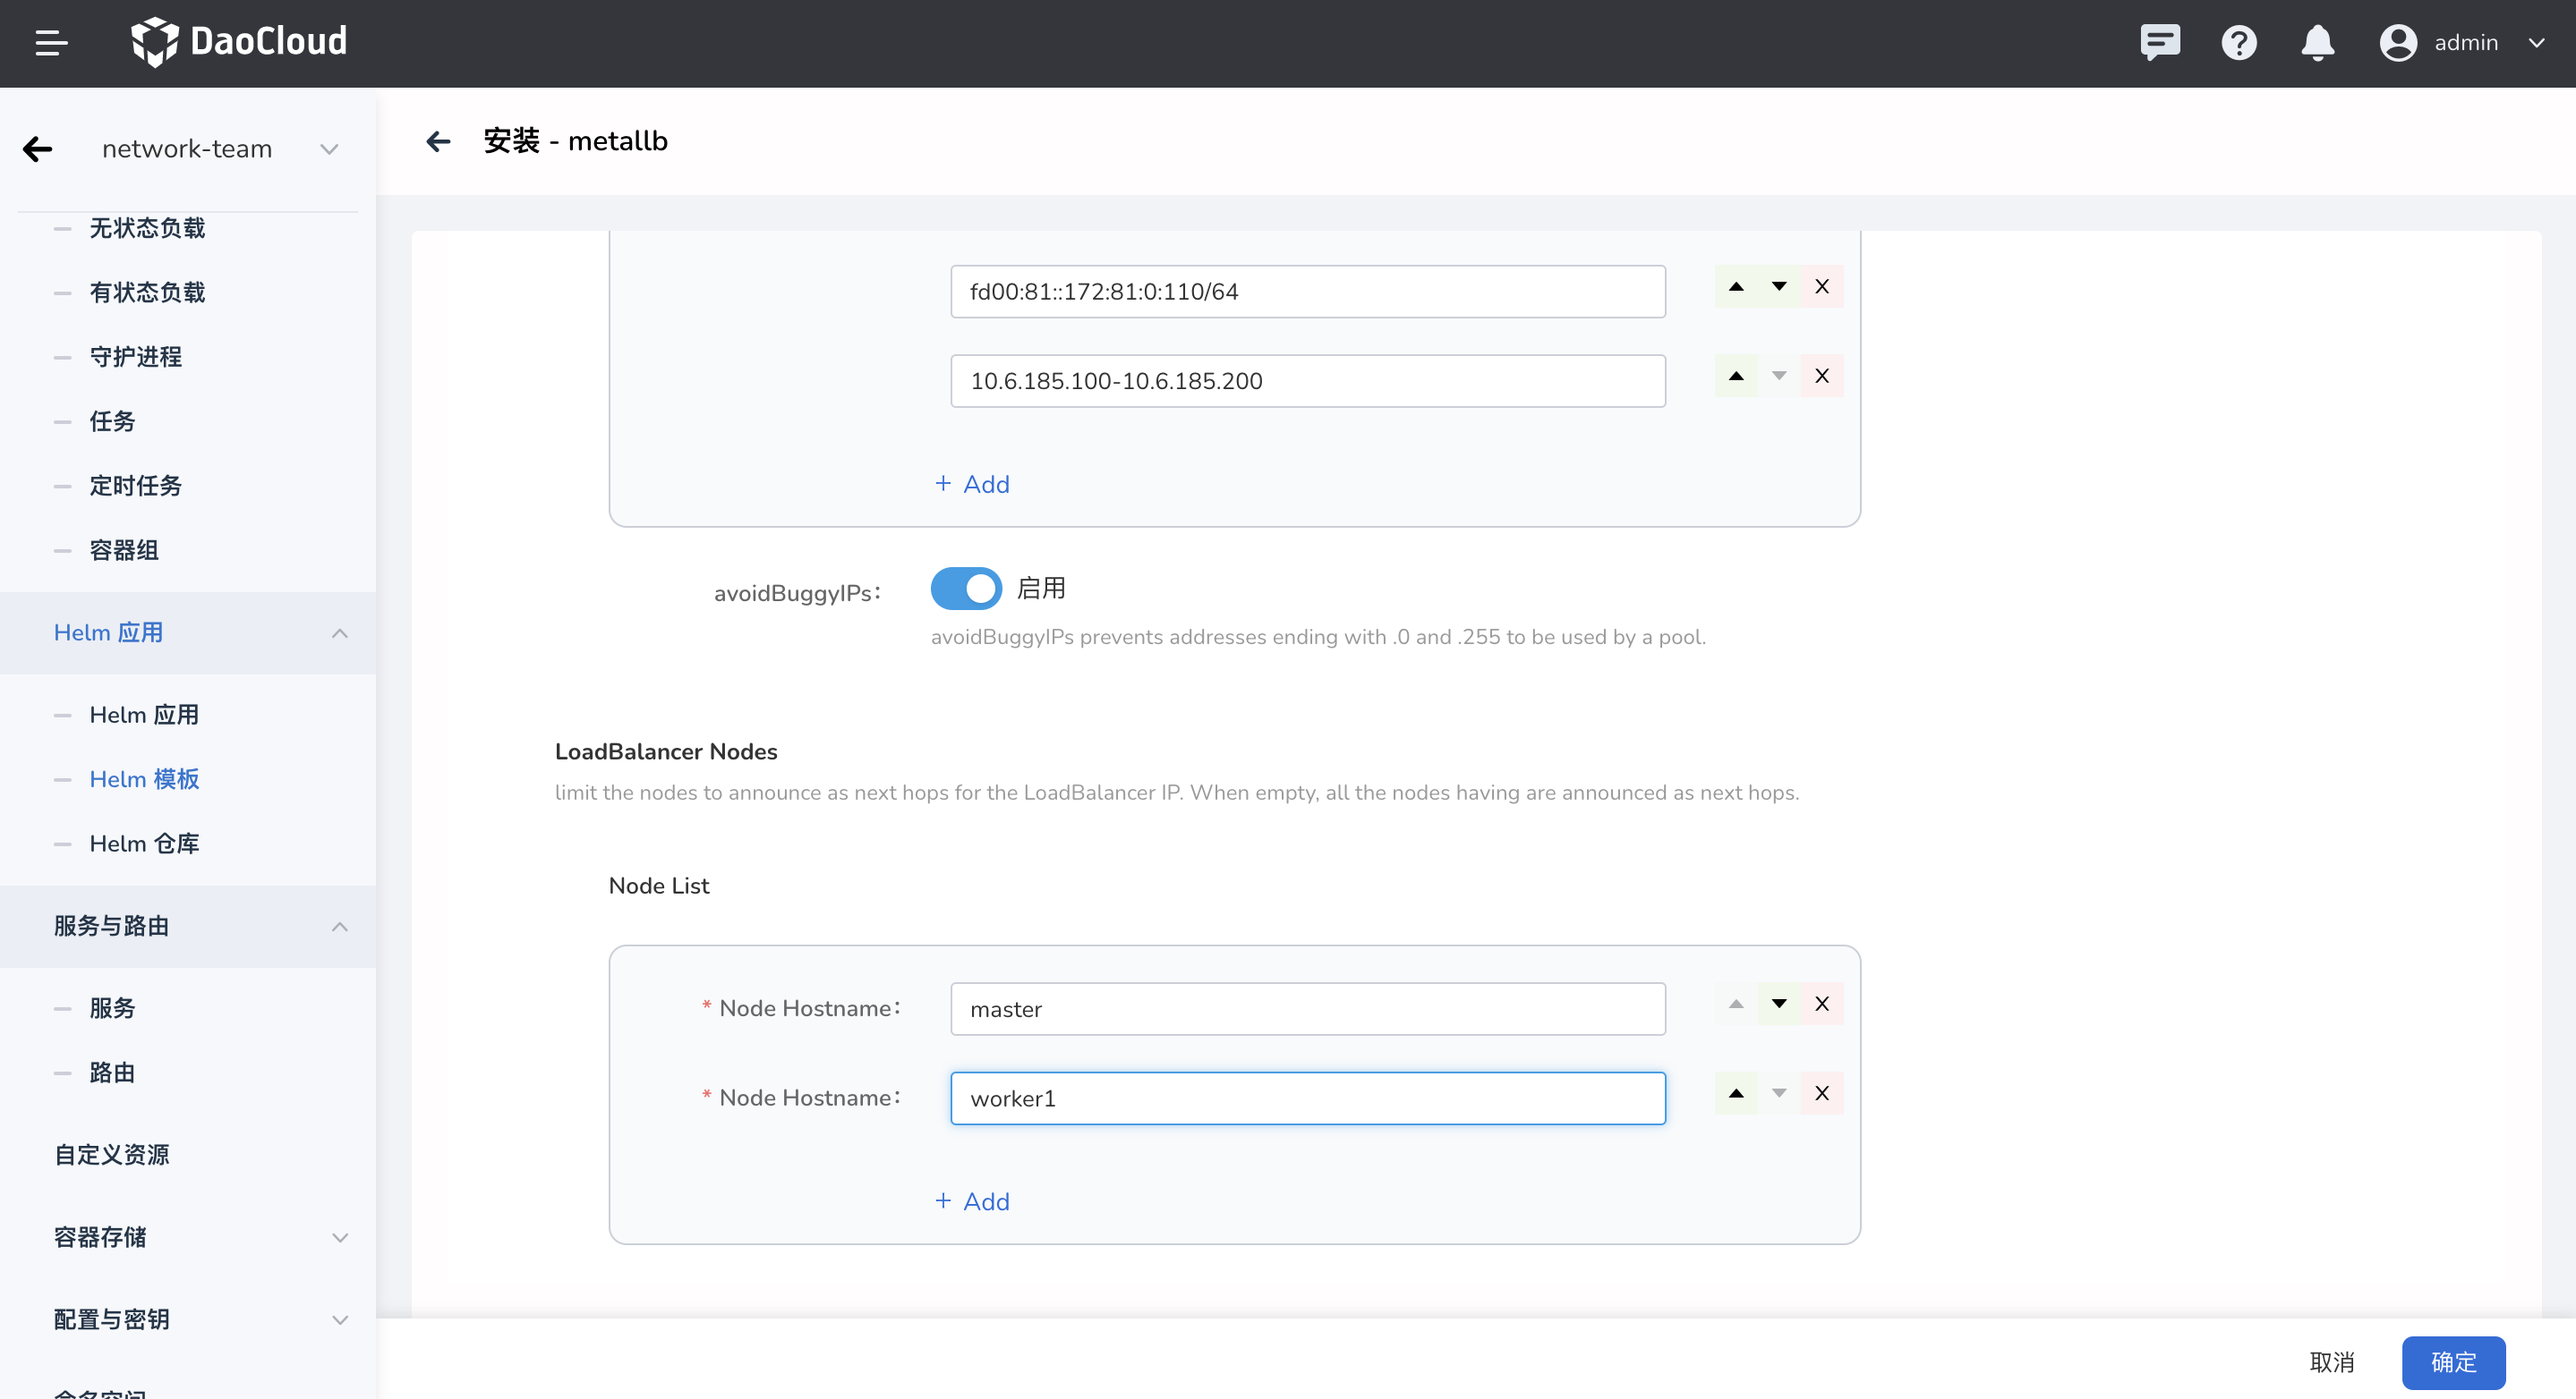
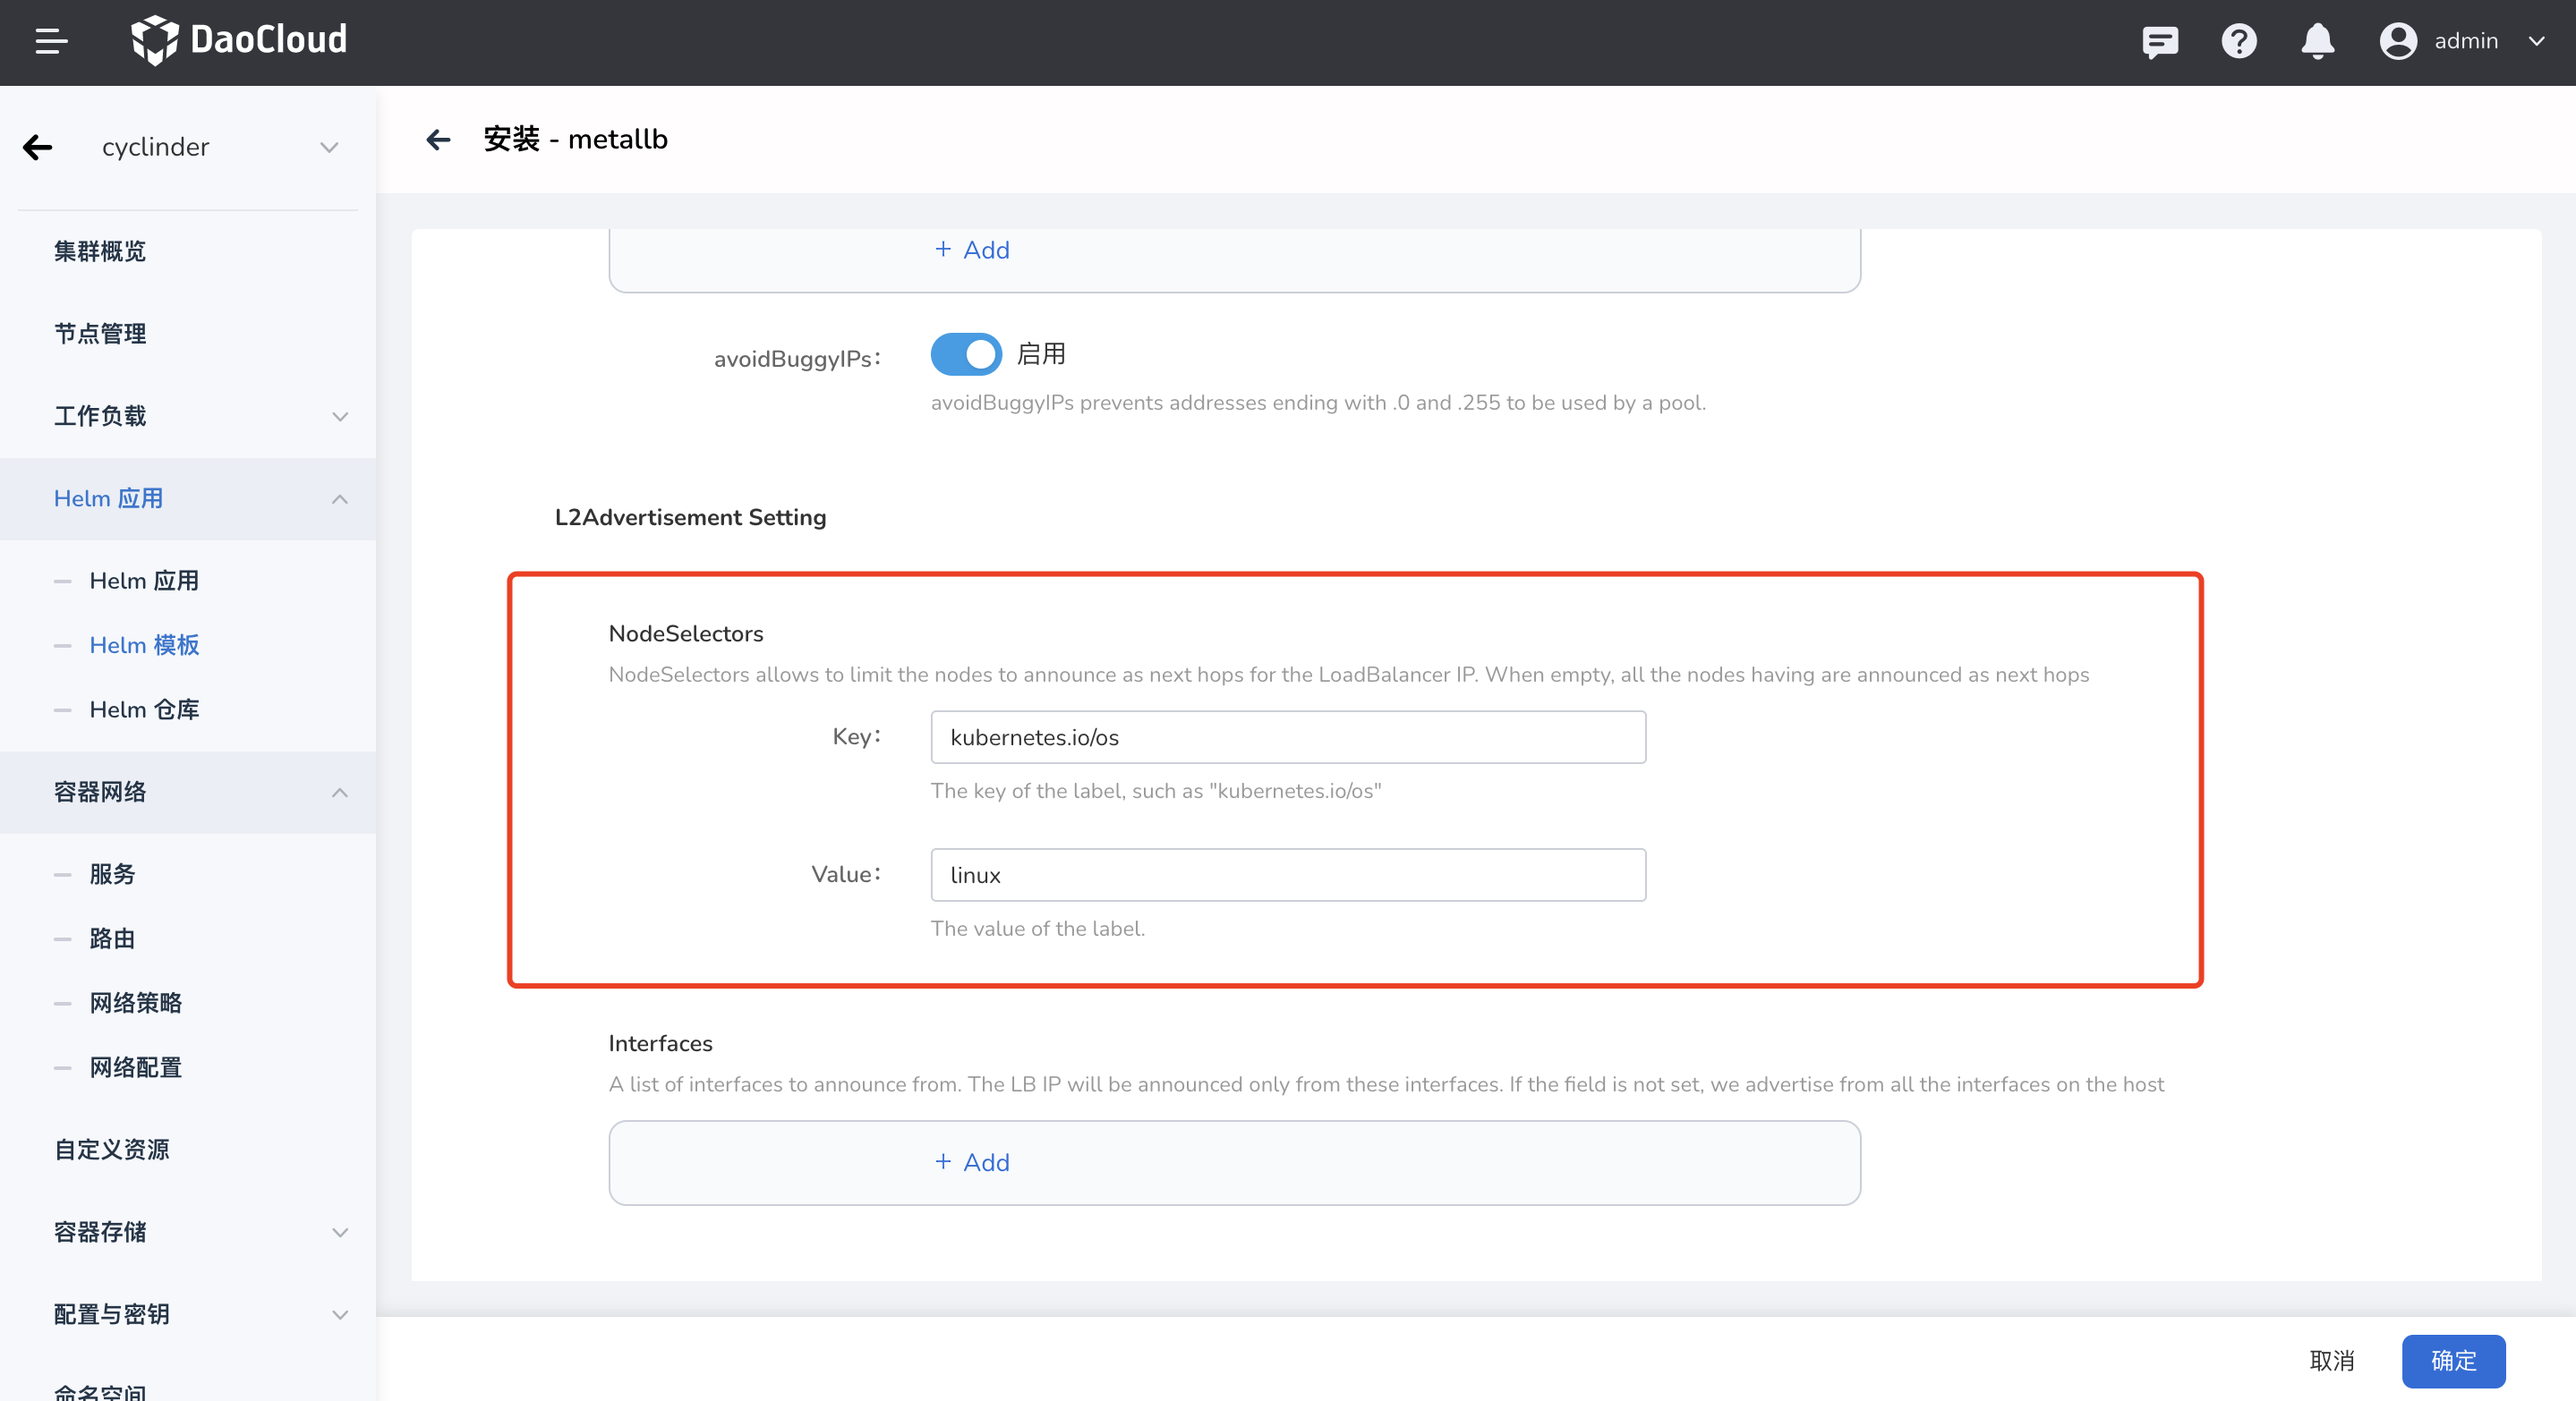
updating and adding metallb docs

diff --git a/docs/zh/docs/network/modules/metallb/source_ip.md b/docs/zh/docs/network/modules/metallb/source_ip.md
@@ -1,0 +1,131 @@
+#  通过Metallb + istio-ingressgateway 获取客户端源IP
+
+## 背景
+
+用户希望在 全景管理模块 >> 审计日志中能够查看操作者的真实IP,而不是被 SNAT 后的 IP 地址, 通过 Metallb ARP 模式 可以满足此需求。主要思路为: 将 istio-gateway pod部署的
+节点与 Metallb 宣告的节点保持一致。
+
+## 步骤
+
+1. 给指定节点打上标签
+
+```shell
+kubectl label nodes demo-dev-worker-03 loadbalancerIPs.metallb.io=arp
+kubectl label nodes demo-dev-worker-04 loadbalancerIPs.metallb.io=arp
+```
+
+2. 使 istio-ingressgateway Pod 调度到上述节点
+
+```shell
+      nodeSelector:
+        loadbalancerIPs.metallb.io: arp
+```
+
+```shell
+[root@demo-dev-master-01 ~]# kubectl get po -n istio-system -o wide
+NAME                                           READY   STATUS             RESTARTS           AGE     IP                NODE                 NOMINATED NODE   READINESS GATES
+istio-ingressgateway-9b8c76bfc-rr5lg           1/1     Running            0                  2d9h    192.168.138.159   demo-dev-worker-03   <none>           <none>
+```
+
+3. 配置 Metallb 宣告上述节点作为 LB IPs 的下一跳
+
+```shell
+[root@demo-dev-master-01 ~]# kubectl get l2advertisements.metallb.io -n metallb-system default-l2advertisement -o yaml
+apiVersion: metallb.io/v1beta1
+kind: L2Advertisement
+metadata:
+  annotations:
+    helm.sh/hook: post-install
+    helm.sh/resource-policy: keep
+  creationTimestamp: "2022-11-14T06:04:35Z"
+  generation: 2
+  labels:
+    app.kubernetes.io/instance: metallb
+    app.kubernetes.io/managed-by: Helm
+    app.kubernetes.io/name: metallb
+    app.kubernetes.io/version: 0.13.5
+    helm.sh/chart: metallb-0.13.5
+  name: default-l2advertisement
+  namespace: metallb-system
+  resourceVersion: "133681854"
+  uid: c5301f5b-fb08-40ae-8a22-2b03e129a092
+spec:
+  ipAddressPoolSelectors:
+  - matchLabels:
+      l2.ipaddress-pool.metallb.io: default-pool
+  ipAddressPools:
+  - default-pool
+  nodeSelectors: 
+  - matchLabels:
+      loadbalancerIPs.metallb.io: arp
+```
+
+通过配置 `spec.nodeSelectors` 来实现绑定。
+
+4. 修改service: istio-ingressgateway 的 `spec.externalTrafficPolicy` = `Local` , 此模式可以保留真实源 IP:
+
+```shell
+[root@demo-dev-master-01 ~]# kubectl get svc -n istio-system istio-ingressgateway -o yaml
+apiVersion: v1
+kind: Service
+metadata:
+  annotations:
+    ckube.daocloud.io/indexes: '{"cluster":"kpanda-global-cluster","createdAt":"2022-11-25T08:27:35Z","importedAt":"","is_deleted":"false","labels":"{\"app\":\"istio-ingressgateway\",\"app.kubernetes.io/managed-by\":\"Helm\",\"app.kubernetes.io/name\":\"istio-ingressgateway\",\"app.kubernetes.io/version\":\"1.15.0\",\"helm.sh/chart\":\"gateway-1.15.0\",\"istio\":\"ingressgateway\"}","name":"istio-ingressgateway","namespace":"istio-system"}'
+    ckube.doacloud.io/cluster: kpanda-global-cluster
+    controller.mspider.io/workload-id: kpanda-global-cluster-deployment-istio-system-istio-ingressgateway
+    controller.mspider.io/workload-status: '{"workloads":{"kpanda-global-cluster-deployment-istio-system-istio-ingressgateway":{"workload_id":"kpanda-global-cluster-deployment-istio-system-istio-ingressgateway","replicas":3,"available_replicas":3,"available_injected_replicas":3,"injected":true,"needs_restart":false,"running":true}},"diag_messages":{"injection":{"message_type":"injection","ready":true,"message":""},"need-restart":{"message_type":"need-restart","ready":true,"message":""},"running":{"message_type":"running","ready":true,"message":""}}}'
+    meta.helm.sh/release-name: istio-ingressgateway
+    meta.helm.sh/release-namespace: istio-system
+  creationTimestamp: "2022-11-25T08:27:35Z"
+  labels:
+    app: istio-ingressgateway
+    app.kubernetes.io/managed-by: Helm
+    app.kubernetes.io/name: istio-ingressgateway
+    app.kubernetes.io/version: 1.15.0
+    helm.sh/chart: gateway-1.15.0
+    istio: ingressgateway
+  name: istio-ingressgateway
+  namespace: istio-system
+  resourceVersion: "198389187"
+  uid: 9308a4fa-88b2-48ff-9ccf-a9fa4d6c6bcf
+spec:
+  allocateLoadBalancerNodePorts: true
+  clusterIP: 10.233.32.214
+  clusterIPs:
+  - 10.233.32.214
+  externalTrafficPolicy: Local
+  healthCheckNodePort: 32109
+  internalTrafficPolicy: Cluster
+  ipFamilies:
+  - IPv4
+  ipFamilyPolicy: SingleStack
+  ports:
+  - name: status-port
+    nodePort: 32082
+    port: 15021
+    protocol: TCP
+    targetPort: 15021
+  - name: http2
+    nodePort: 30421
+    port: 80
+    protocol: TCP
+    targetPort: 8080
+  - name: https
+    nodePort: 30483
+    port: 443
+    protocol: TCP
+    targetPort: 8443
+  selector:
+    app: istio-ingressgateway
+    istio: ingressgateway
+  sessionAffinity: None
+  type: LoadBalancer
+status:
+  loadBalancer:
+    ingress:
+    - ip: 10.6.229.180
+```
+
+5. 效果查看:
+
+![](../../images/source-ip.png)

diff --git a/docs/zh/docs/network/modules/metallb/install.md b/docs/zh/docs/network/modules/metallb/install.md
@@ -4,32 +4,46 @@
 
 ## 安装
 
-1. Metallb Helm Chart 存放于 system repo 下:
+- Metallb Helm Chart 存放于 addon repo 下:
 
-    ![metallb_repo](../../images/helm_repo.png)
 
-2. 安装 IP 池
+![metallb_repo](../../images/metallb_helm_repo.png)
 
-    安装 Metallb 时, 可选择安装 IP 池。LoadBalancer Service默认会从这个池中分配 IP 地址, 并且通过 APR 宣告这个池中的所有 IP 地址。
+- 初始化 Metallb ARP 模式:
 
-    !!! note
+> 注意: 如果安装时开启 ARP 模式, 请开启 就绪等待!
 
-        地址池列表可以配置 IPv4 和 IPv6 的地址。
-        每个地址段输入格式可以为合法的 CIDR（如 192.168.1.0/24），也可以为 IP 范围（如 1.1.1.1-1.1.1.20）。
-        输入的每个地址段应当属于节点某个网段, 但注意不要已有的 IP 地址冲突。
+> 安装 Metallb 时, 可选择初始化 Metallb ARP 模式。LoadBalancer Service默认会从这个池中分配 IP 地址, 并且通过 APR 宣告这个池中的所有 IP 地址。
 
-    ![metallb_ippool](../../images/metallb_ippool.png)
+> 地址池列表可以配置 IPv4 和 IPv6 的地址
+> 
+> 每个地址段输入格式可以为合法的 CIDR（如 192.168.1.0/24），也可以为 IP 范围（如 1.1.1.1-1.1.1.20）
+> 
+> 输入的每个地址段应当属于集群节点某个真实"物理"网段, 但注意不要已有的 IP 地址冲突
 
-3. 配置 LoadBalancer IP 的下一跳
+![metallb_ippool](../../images/metallb_ippool.png)
 
-    默认情况下, 所有节点都会作为 LoadBalancer IP的下一跳, 但可以限制只有某些节点作为 LoadBalancer IP 的下一跳:
+- 配置 Metallb L2Advertisement
 
-    ![node_list](../../images/metallb_nodelist.png)
+    - 默认情况下, 所有节点都会作为 LoadBalancer IP的下一跳, 但可以通过 NodeSelector 限制只有某些节点作为 LoadBalancer IP 的下一跳:
 
-    如上图配置表示, 只有 Master 和 Worker1 节点 会作为 LoadBalancer IP 的下一跳。
+    
+![node_list](../../images/metallb_nodelist.png)
 
-4. 上面配置只会初始化 Metallb ARP 模式，配置比较简单。这里并不包括初始化 Metallb BGP模式。BGP 模式配置较为复杂, 且需要硬件支持。如需配置 BGP 模式, 请参考[advanced_bgp_configuration](https://metallb.universe.tf/configuration/_advanced_bgp_configuration/)。
+    如上图配置表示, 只有匹配 Label "kubernetes.io/os: linux" 的节点才会作为 LoadBalancer IP 的下一跳。
 
-5. 安装完成
+- 指定特定接口宣告 LB IP
+
+默认情况下, Metallb 从节点所有网卡宣告 LB IPs, 我们可以配置指定网络接口宣告。
+
+![](../../images/metallb-interface.png)
+
+
+- 安装完成
 
     ![](../../images/metallb_installed.png)
+
+## 注意事项
+
+- Metallb 安装只提供初始化 ARP 模式。BGP 模式配置较为复杂且需要硬件支持,这里并不提供初始化 Metallb BGP模式。如需配置 BGP 模式, 请参考 [advanced_bgp_configuration](https://metallb.universe.tf/configuration/_advanced_bgp_configuration)
+- 如果安装时未初始化 ARP 模式, 不能使用 Helm 更新的方式去重新初始化 ARP 模式, 请参考 [Metallb使用](usage.md).
